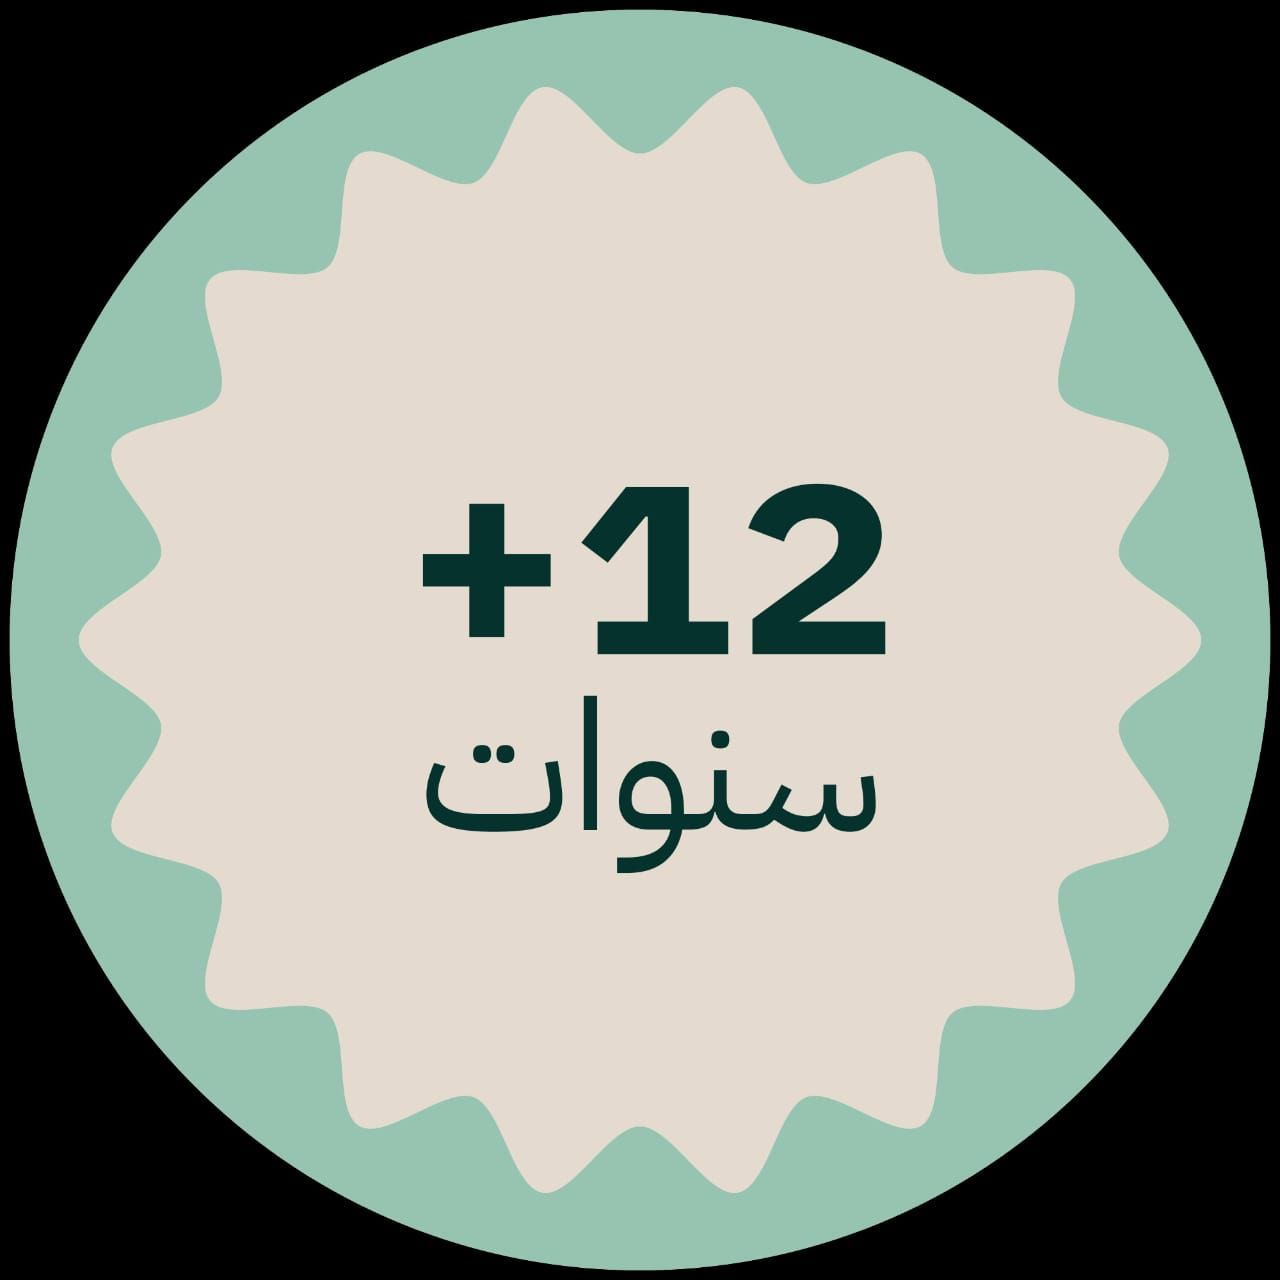
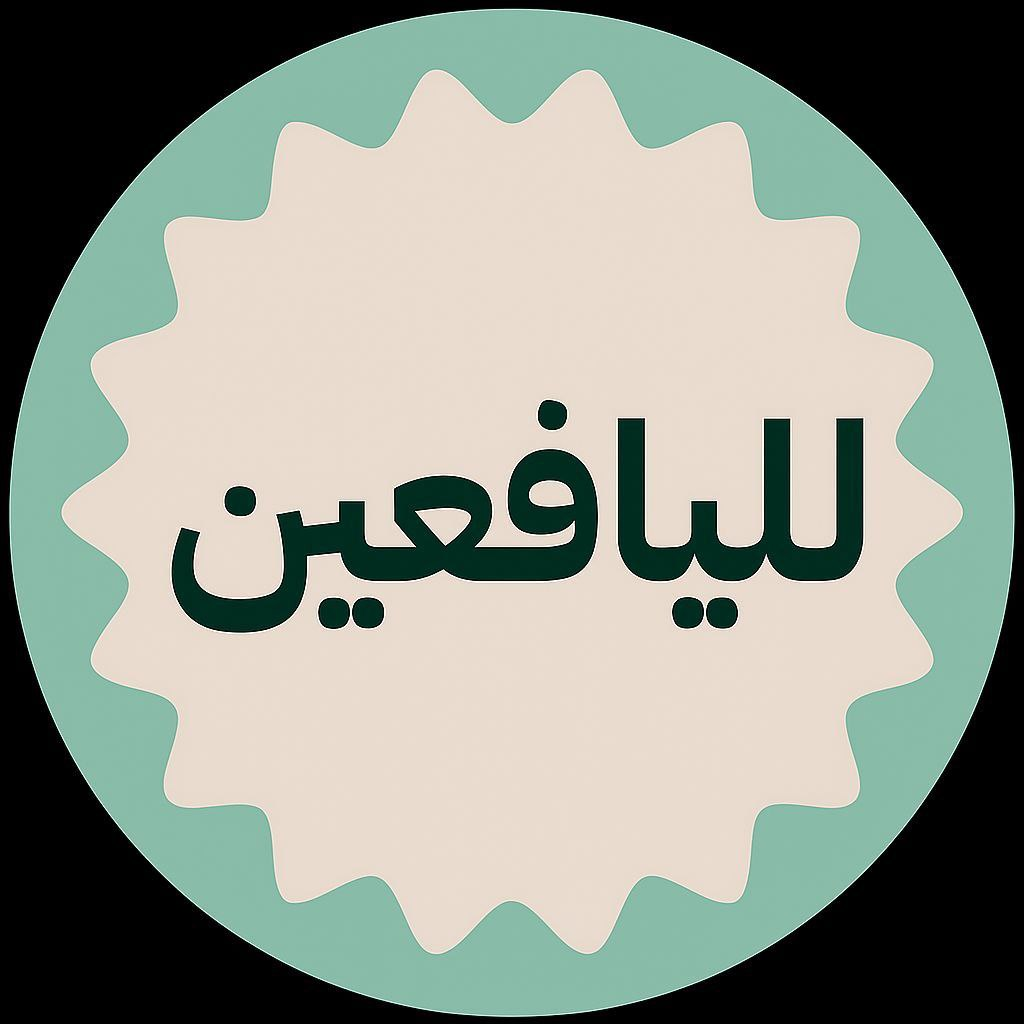
pushnew2

diff --git a/lib/view/widget/home/listagegroup_responsive_ordered.dart b/lib/view/widget/home/listagegroup_responsive_ordered.dart
@@ -14,7 +14,7 @@ class ListAgeGroupRR extends GetView<HomeControllerImp> {
       "0-3 سنوات",
       "9-12 سنوات",
       "3-6 سنوات",
-      "12+ سنوات",
+      "لليافعين",
       "6-9 سنوات",
       "للأهل والمربين",
     ];

diff --git a/lib/view/screen/home.dart b/lib/view/screen/home.dart
@@ -39,7 +39,7 @@ class HomePage extends StatelessWidget {
       "0-3  سنوات",
       "9-12 سنوات",
       " 3-6 سنوات",
-      "12+ سنوات",
+      "لليافعين",
       "6-9  سنوات",
       "للأهل والمربين",
     ];

diff --git a/lib/view/widget/home/listagegroup_responsive.dart b/lib/view/widget/home/listagegroup_responsive.dart
@@ -15,7 +15,7 @@ class ListAgeGroupR extends GetView<HomeControllerImp> {
       "3-6 سنوات",
       "6-9 سنوات",
       "9-12 سنوات",
-      "12+ سنوات",
+      "لليافعين",
       "للأهل والمربين",
     ];
 
